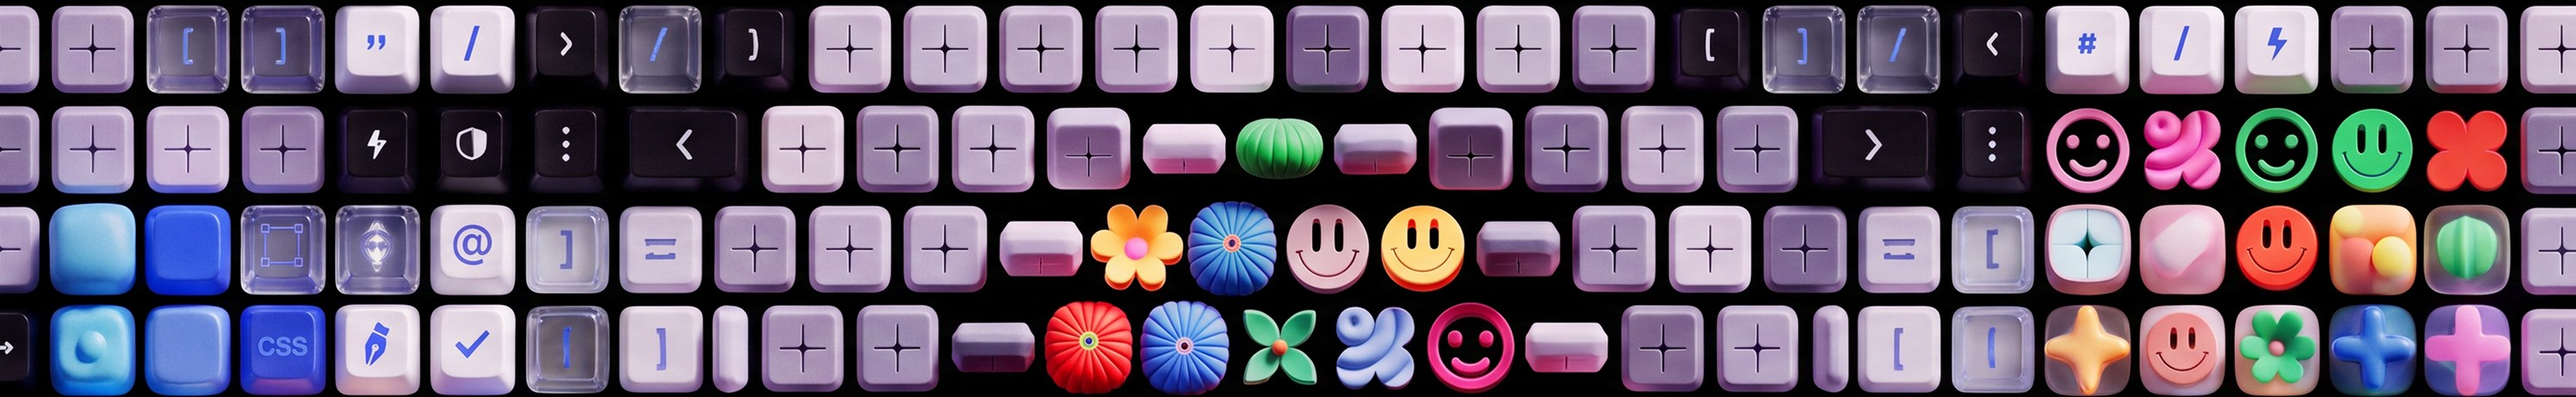
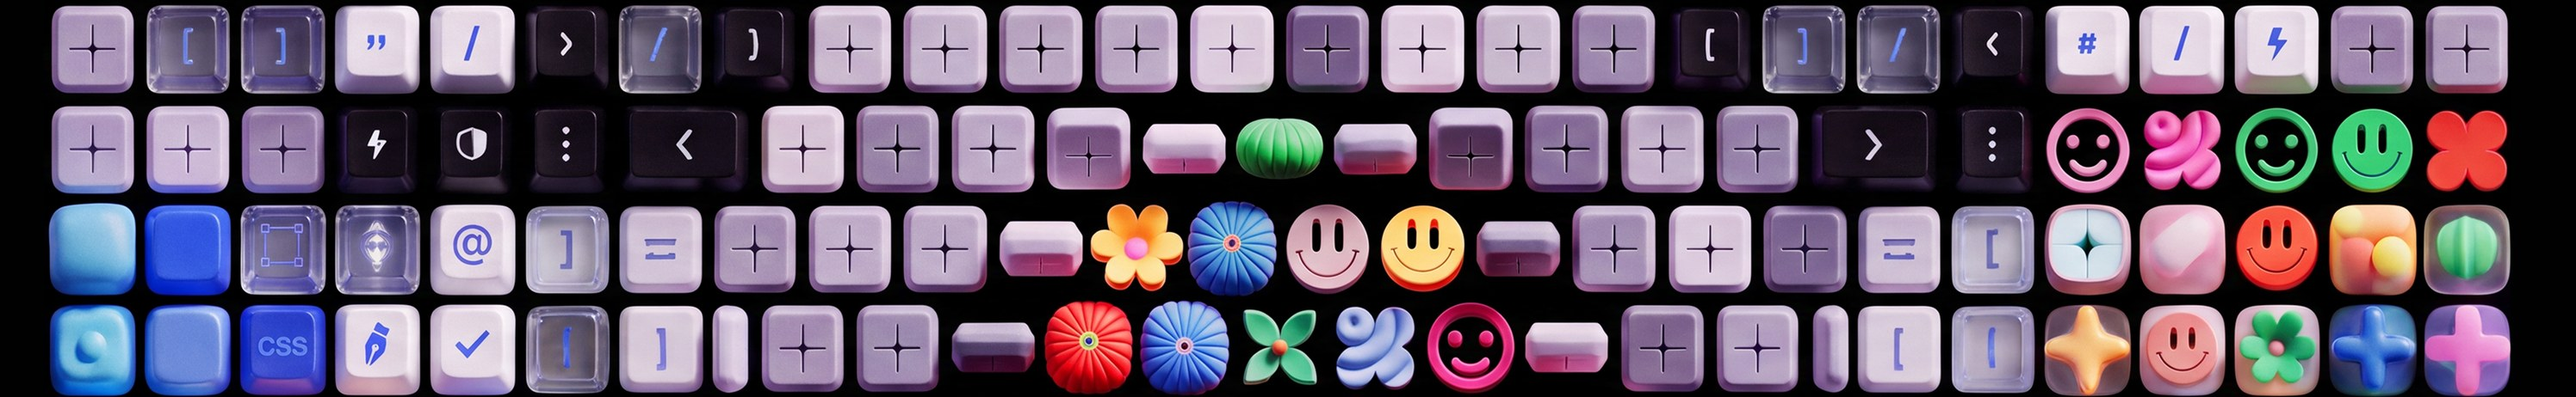
복도 천장 정합 · 교실 관람 게이트 · 도면 축척 일치
05p 복도 3D
- 프로젝터 개구를 빛기둥 바로 위로 옮겼다. 실제로는 경사 투사라 개구가 1.66m
  뒤에 오지만, 빛기둥을 수직으로 세워 둔 화면에서는 "엉뚱한 데서 나온 빛"으로만
  읽혔다. 실제 기하는 03p 배치 도해가 오프셋까지 그대로 그린다
- 형광등 위치를 개구 좌표에서 계산해 한 칸 걸러 5등으로. 손으로 적어 둔 좌표가
  개구를 옮길 때마다 어긋나던 문제도 같이 사라진다
- 평상시(형광등)로 넘기면 바닥 콘텐츠가 자동으로 꺼지고, 소등으로 돌아오면
  직전 콘텐츠가 살아난다 — 프로젝터가 꺼진 상태와 앞뒤를 맞춘다
- 03 키캡 원본을 양 끝 잘림 없는 레퍼런스_바닥6_1.jpg 로 교체

06p 교실 3D
- 휠 방향을 뒤집었다 (아래로 = 다음 지점)
- 9지점을 다 봐야 다음 슬라이드로 넘어가고, 되돌아갈 때도 처음까지 되짚는다
  (deck.js 의 window.CORR 게이트와 같은 방식으로 window.ROOM 추가)
- 세로형 LED · 65" TV · 태블릿 · 미디어월을 클릭하면 원본 크기로 열린다.
  3D 안에서는 작고 비스듬해 화면 내용이 안 읽혔다

02p 도면
- 원본 도면을 구축범위 도면과 같은 축척(SC=4)·같은 좌표계로 다시 그렸다.
  통심 ③ x=440 / ⑤ x=1360 — 두 장이 같은 픽셀에 와서 눈으로 이어붙는다

diff --git a/js/corridor.js b/js/corridor.js
@@ -155,14 +155,17 @@
   /* 발자국·18% 중첩 띠·LiDAR 부채꼴 오버레이는 걷어냈다 — 토글 세 개가 화면을
      설명 도표로 만들었고, 이 슬라이드가 보여줄 것은 "실제로 이렇게 보인다"다.
      수치 근거는 6p 와 tools/projector_sim.py 에 남아 있다. */
-  var N = 10, PITCH = 1.592, SEGL = 1.937, OFF = 0.689;
-  var pjHtml = '', coneZ = [];
+  var N = 10, PITCH = 1.592, SEGL = 1.937;
+  /* 실제로는 경사 투사라 천장 개구가 발자국보다 1.66m 뒤에 온다(오프셋 689 + 커버 절반).
+     그런데 빛기둥은 수직 사다리꼴로 세워 두었으니, 개구를 뒤로 물리면 화면에서는
+     "엉뚱한 데서 나온 빛"으로만 읽힌다. 여기서는 개구를 콘 바로 위에 맞춘다 —
+     실제 기하는 5p 배치 도해(tools/make_system_plan.py)가 오프셋까지 그대로 그린다. */
+  var pjHtml = '', coneZ = [], pjA = [];
   for (var p = 0; p < N; p++) {
-    var s0 = A0 + p * PITCH * PPM, s1 = s0 + SEGL * PPM;
-    /* 천장 개구는 발자국보다 투사 오프셋만큼 뒤에 온다. 양끝만 구간 안으로 물린다. */
-    var nad = Math.min(Math.max(s0 - OFF * PPM, A0 + 0.35 * PPM), A0 + L - 0.35 * PPM);
-    pjHtml += '<i class="cw-pj" style="left:' + nad + 'px"></i>';
-    coneZ.push(zOf((s0 + s1) / 2));
+    var mid = A0 + (p * PITCH + SEGL / 2) * PPM;
+    pjA.push(mid);
+    pjHtml += '<i class="cw-pj" style="left:' + mid + 'px"></i>';
+    coneZ.push(zOf(mid));
   }
 
   /* LiDAR 3대 — 교실쪽 벽 상부. 구축 구간 3분할(2.7 / 8.1 / 13.5m).
@@ -176,9 +179,12 @@
     '<span>구축 범위 끝 · 통심 ⑤<br /><i>16,200mm</i></span>', { z: zOf(TL) });
 
   /* ---- 천장 : 형광등 · 프로젝터 매립 개구 · LiDAR ----
-     형광등은 프로젝터 개구 사이 빈칸에만 넣는다. 매립 개구와 겹치면 둘 다 못 단다.
-     개구 반폭 52 · 등 반폭 75 이므로, 개구 간 310px 틈의 중앙이면 양쪽 80px 여유. */
-  var GAPS = [442, 1270, 2097, 2925, 3905].map(function (v) { return A0 + v; });
+     형광등은 프로젝터 개구 사이 빈칸의 정중앙에 둔다 — 좌표를 손으로 적어 두면
+     개구가 움직일 때마다 어긋나므로 pjA 에서 계산한다.
+     개구 반폭 52 · 등 반폭 75 · 개구 간격 414px → 틈 310px, 등 150 이 들어가고 80px 씩 남는다.
+     한 칸 걸러 하나씩만 놓아 등 간격을 828px(3.2m)로 — 매 칸이면 1.6m 라 너무 촘촘하다. */
+  var GAPS = [];
+  for (var g = 0; g + 2 < pjA.length; g += 2) GAPS.push((pjA[g] + pjA[g + 1]) / 2);
   var FLPOS = [A0 / 2].concat(GAPS);              // 계단실 구간에도 1등
   var flHtml = FLPOS.map(function (a) {
     return '<i class="cw-fl" style="left:' + a + 'px"></i>';
@@ -267,8 +273,14 @@
     slide.style.setProperty('--cone', CONE[f] || CONE['']);
     slide.style.setProperty('--cone-a', f ? '1' : '.45');
   }
+  var last = null;                       // 형광등으로 갈 때 접어 둔 콘텐츠
   slide.querySelectorAll('.cw-fbtn').forEach(function (b) {
-    b.addEventListener('click', function (e) { e.stopPropagation(); setFloor(b); });
+    b.addEventListener('click', function (e) {
+      e.stopPropagation();
+      setFloor(b);
+      /* 콘텐츠를 직접 고르면 형광등 복귀분은 무효 — 지금 고른 것이 기준이 된다 */
+      last = b.dataset.floor ? b : null;
+    });
   });
   setFloor(slide.querySelector('.cw-fbtn.is-on'));
 
@@ -278,11 +290,19 @@
   slide.querySelectorAll('.cw-mbtn').forEach(function (b) {
     b.addEventListener('click', function (e) {
       e.stopPropagation();
-      var m = b.dataset.mode;
+      var m = b.dataset.mode, lit = m === 'lit';
       slide.querySelectorAll('.cw-mbtn').forEach(function (x) { x.classList.remove('is-on'); });
       b.classList.add('is-on');
-      slide.classList.toggle('is-lit', m === 'lit');
-      slide.classList.toggle('fx-cone', m !== 'lit');
+      slide.classList.toggle('is-lit', lit);
+      slide.classList.toggle('fx-cone', !lit);
+      /* 형광등을 켜면 프로젝터는 꺼진 상태다 — 바닥 콘텐츠도 같이 내려야 앞뒤가 맞는다.
+         소등으로 돌아올 때 직전 콘텐츠를 되살린다. */
+      if (lit) {
+        last = slide.querySelector('.cw-fbtn.is-on');
+        setFloor(slide.querySelector('.cw-fbtn[data-floor=""]'));
+      } else if (last) {
+        setFloor(last);
+      }
     });
   });
 })();

diff --git a/js/room3d.js b/js/room3d.js
@@ -56,9 +56,9 @@
       'translate3d(' + (cx - w / 2) + 'px,' + (cy - h / 2) + 'px,' + cz + 'px)' +
       (rot || '') + '">' + (html || '') + '</i>';
   }
-  function box(w, h, d, x, y, z, cls, html) {
+  function box(w, h, d, x, y, z, cls, html, attr) {
     var hw = w / 2, hh = h / 2, hd = d / 2;
-    return '<div class="bx ' + (cls || '') + '" style="transform:translate3d(' +
+    return '<div class="bx ' + (cls || '') + '"' + (attr || '') + ' style="transform:translate3d(' +
       x + 'px,' + y + 'px,' + z + 'px)">' +
       face(w, h, 0, 0, hd, '', 'bx__f', html) +
       face(d, h, -hw, 0, 0, ' rotateY(-90deg)', 'bx__s') +
@@ -86,7 +86,7 @@
        앞으로 밀어야 옆면이 보이고, 뒤에 그림자를 깔아야 떠 있는 게 읽힌다. */
     wallShadow(4 * PPM, 2.5 * PPM, 0, 0) +
     box(4 * PPM, 2.5 * PPM, 0.34 * PPM, 0, 0, 0.17 * PPM + 6, 'bx--led',
-      '<img class="bx__img" src="assets/img/led/imw-hero.jpg" alt="" />'),
+      '<img class="bx__img" src="assets/img/led/imw-hero.jpg" alt="" />', zoom(3)),
     0, HL).dataset.solid = '1';   // 입체 상자를 품은 면 — opacity 로 페이드하면 납작해진다
 
   /* ---- 서측 단변 : 입구 정면 벽 — 과 부스 01 이 붙는다 ---- */
@@ -141,6 +141,12 @@
     return src ? '<img class="bx__img" src="' + src + '" alt="" />' : '';
   }
 
+  /* 3D 안에서는 화면이 작고 비스듬해 내용이 안 읽힌다 — 클릭하면 원본으로 연다.
+     deck.js 라이트박스가 [data-gallery][data-index] 를 잡으므로 상자에 그대로 얹는다. */
+  function zoom(i) {
+    return ' data-no-advance data-gallery="booth" data-index="' + i + '"';
+  }
+
   /* 벽면에 지는 그림자. 기기보다 조금 크게 잡고 아래로 내려 광원이 위에 있다는
      전제를 맞춘다. 벽(z=0) 바로 앞 2px 에 눕혀 기기 뒤로 깔린다. */
   function wallShadow(w, h, x, y) {
@@ -166,15 +172,15 @@
     var vy = FL - 39 - vh / 2, ty = FL - 330 - th / 2;
     return '<div class="rm-booth__no">' + n + '</div>' +
       wallShadow(vw, vh, lx, vy) + wallShadow(tw, th, rx, ty) +
-      box(vw, vh, vd, lx, vy, vd / 2 + OFF, 'bx--vled', screen(SHOT.v)) +
-      box(tw, th, td, rx, ty, td / 2 + OFF, 'bx--tv', screen(SHOT.t)) +
+      box(vw, vh, vd, lx, vy, vd / 2 + OFF, 'bx--vled', screen(SHOT.v), zoom(0)) +
+      box(tw, th, td, rx, ty, td / 2 + OFF, 'bx--tv', screen(SHOT.t), zoom(1)) +
       box(cw, ch, cd, rx, FL - ch / 2, cz, 'bx--desk', '') +
       /* 경사 하우징에 눕는 태블릿. 판 한 장이면 옆에서 종잇장이 되므로 얇은 상자로
          세운다 — 갤럭시탭 12.4″ 는 16:10, 두께 6mm 에 하우징 테두리가 더 붙는다.
          상자를 눕히는 회전은 바깥 래퍼가 맡고, 안쪽 box() 는 로컬 원점에 둔다. */
       '<i class="rm-tab" style="transform:translate3d(' + rx + 'px,' +
       (FL - ch - 8) + 'px,' + (cz + 40) + 'px) rotateX(58deg)">' +
-      box(84, 52, 9, 0, 0, 0, 'bx--tab', screen(SHOT.p)) + '</i>';
+      box(84, 52, 9, 0, 0, 0, 'bx--tab', screen(SHOT.p), zoom(2)) + '</i>';
   }
 
   BOOTHS.forEach(function (b) {
@@ -271,12 +277,29 @@
     b.addEventListener('click', function (e) { e.stopPropagation(); vi = i; apply(); });
   });
 
+  /* 휠 아래로 = 다음 지점. 문서를 아래로 내리듯 동선을 따라간다
+     (07p 복도는 휠 위로 = 전진 — 그쪽은 카메라가 앞으로 나가는 동작이라 방향이 반대다). */
   var lock = 0;
   slide.addEventListener('wheel', function (e) {
     e.preventDefault();
     if (e.timeStamp - lock < 300) return;
     lock = e.timeStamp;
-    vi = Math.max(0, Math.min(SPOTS.length - 1, vi + (e.deltaY < 0 ? 1 : -1)));
-    apply();
+    step(e.deltaY > 0 ? 1 : -1);
   }, { passive: false });
+
+  function step(d) {
+    var nx = vi + d;
+    if (nx < 0 || nx > SPOTS.length - 1) return false;   // 끝 — 슬라이드로 넘긴다
+    vi = nx; apply();
+    return true;
+  }
+
+  /* deck.js 가 ← → · Space 를 넘기기 전에 물어본다. 9지점을 다 보기 전에는
+     슬라이드가 넘어가지 않고, 되돌아갈 때도 마찬가지로 처음까지 되짚는다.
+     들어오는 방향에 따라 시작 지점이 다르다 — 뒤에서 오면 마지막 컷부터. */
+  window.ROOM = {
+    next: function () { return step(1); },
+    prev: function () { return step(-1); },
+    reset: function (fromEnd) { vi = fromEnd ? SPOTS.length - 1 : 0; apply(); }
+  };
 })();

diff --git a/index.html b/index.html
@@ -18,12 +18,12 @@
   <meta name="description" content="복도 바닥 프로젝션 · 대형 LED 미디어월 · 과 부스 5개소 — 콘텐츠 · 시스템 구축 계획." />
 
   <link rel="stylesheet" href="https://cdn.jsdelivr.net/gh/orioncactus/pretendard@v1.3.9/dist/web/static/pretendard.css" />
-  <link rel="stylesheet" href="css/tokens.css?v=20260821050000" />
-  <link rel="stylesheet" href="css/base.css?v=20260821050000" />
-  <link rel="stylesheet" href="css/slides.css?v=20260821050000" />
-  <link rel="stylesheet" href="css/storyboard.css?v=20260821050000" />
-  <link rel="stylesheet" href="css/proposal.css?v=20260821050000" />
-  <link rel="stylesheet" href="css/gunja.css?v=20260821050000" />
+  <link rel="stylesheet" href="css/tokens.css?v=20260821061000" />
+  <link rel="stylesheet" href="css/base.css?v=20260821061000" />
+  <link rel="stylesheet" href="css/slides.css?v=20260821061000" />
+  <link rel="stylesheet" href="css/storyboard.css?v=20260821061000" />
+  <link rel="stylesheet" href="css/proposal.css?v=20260821061000" />
+  <link rel="stylesheet" href="css/gunja.css?v=20260821061000" />
 </head>
 <body>
   <div id="boot"></div>
@@ -69,7 +69,7 @@
         <div class="doc-body">
           <div class="plan-pair" data-rise="2">
             <figure>
-              <img src="assets/img/plan-original.png?v=2" alt="제공받은 원본 도면 — 3층 평면" data-no-advance data-gallery="plan" data-index="0" />
+              <img src="assets/img/plan-original.png?v=3" alt="제공받은 원본 도면 — 3층 평면" data-no-advance data-gallery="plan" data-index="0" />
               <figcaption><b>제공받은 원본 도면</b>3층 평면 · 통심 ③~⑤ 구간이 이번 구축 범위입니다</figcaption>
             </figure>
             <figure>
@@ -310,10 +310,10 @@
 
   <!-- tech.js · cue-console.js · album-tabs.js · storyboard.js 는 담당하던 슬라이드가
        빠지면서 붙일 곳이 없어졌다. 파일은 deck/js 에 남겨 두고 로드만 끊는다. -->
-  <script src="js/gallery-data.js?v=20260821050000"></script>
-  <script src="js/room3d.js?v=20260821050000"></script>
-  <script src="js/corridor.js?v=20260821050000"></script>
-  <script src="js/imw-hover.js?v=20260821050000"></script>
-  <script src="js/deck.js?v=20260821050000"></script>
+  <script src="js/gallery-data.js?v=20260821061000"></script>
+  <script src="js/room3d.js?v=20260821061000"></script>
+  <script src="js/corridor.js?v=20260821061000"></script>
+  <script src="js/imw-hover.js?v=20260821061000"></script>
+  <script src="js/deck.js?v=20260821061000"></script>
 </body>
 </html>

diff --git a/js/deck.js b/js/deck.js
@@ -103,17 +103,21 @@
     current = nx;
     /* 복도 시뮬레이션 / 기술구성으로 들어올 때: 앞에서 오면 첫 항목, 뒤에서 오면 마지막부터 */
     if (slides[current].id === 'corridor-sim3d' && window.CORR) window.CORR.reset(dir < 0);
+    if (slides[current].id === 'room-sim3d' && window.ROOM) window.ROOM.reset(dir < 0);
     if (slides[current].id === 'tech' && window.TECH) window.TECH.reset(dir < 0);
     var gt = slides[current].querySelector('.sc-track-main');
     if (gt) { gt.scrollLeft = (dir < 0) ? Math.max(0, gt.scrollWidth - gt.clientWidth) : 0; }
     render();
   }
   function gatedTrack() { return slides[current].querySelector('.sc-track-main'); }
-  /* 복도 시뮬레이션은 16.2m 를 다 걸은 뒤, 기술구성은 두 센서 뷰를 소진한 뒤 슬라이드를 넘긴다 */
+  /* 복도 시뮬레이션은 16.2m 를 다 걸은 뒤, 교실은 9지점을 다 본 뒤,
+     기술구성은 두 센서 뷰를 소진한 뒤 슬라이드를 넘긴다 */
   function onCorr() { return slides[current].id === 'corridor-sim3d' && window.CORR; }
+  function onRoom() { return slides[current].id === 'room-sim3d' && window.ROOM; }
   function onTech() { return slides[current].id === 'tech' && window.TECH; }
   function next() {
     if (onCorr() && window.CORR.next()) return;
+    if (onRoom() && window.ROOM.next()) return;
     if (onTech() && window.TECH.next()) return;
     var t = gatedTrack();
     if (t) {
@@ -124,6 +128,7 @@
   }
   function prev() {
     if (onCorr() && window.CORR.prev()) return;
+    if (onRoom() && window.ROOM.prev()) return;
     if (onTech() && window.TECH.prev()) return;
     var t = gatedTrack();
     if (t) {

diff --git a/js/gallery-data.js b/js/gallery-data.js
@@ -23,10 +23,26 @@ window.GALLERY = {
   plan: {
     fit: 'contain',
     items: [
-      { k: 'i', s: 'assets/img/plan-original.png', t: '제공받은 원본 도면',
+      { k: 'i', s: 'assets/img/plan-original.png?v=3', t: '제공받은 원본 도면',
         m: '3층 평면 · 통심 ③~⑤ 구간이 구축 범위', spec: '학교 제공' },
       { k: 'i', s: 'assets/img/scope-plan.png', t: '구축 범위 도면',
         m: '칸막이 제거 후 단일 공간 · 바닥 프로젝션 + LED 미디어월 구역', spec: '실측 기반' }
+    ]
+  },
+
+  /* 06p · 3D 안의 화면들 — 작고 비스듬해 내용이 안 읽힌다. 클릭하면 원본으로 연다.
+     순서는 room3d.js zoom(0..3) 과 맞춰야 한다. */
+  booth: {
+    fit: 'contain',
+    items: [
+      { k: 'i', s: 'assets/img/booth/vled-01_1.jpg', t: '세로형 벽면 LED',
+        m: '상시 표출 · 통로 끝에서 학과를 알아보게', spec: '600 × 2,400mm · 240 × 960px' },
+      { k: 'i', s: 'assets/img/booth/tv-01-elec.jpg', t: '65″ 벽걸이 TV',
+        m: '카운터 태블릿이 그대로 미러링하는 화면', spec: '1,920 × 1,080 · 16:9' },
+      { k: 'i', s: 'assets/img/booth/tablet-01-elec-w.jpg', t: '카운터 태블릿',
+        m: '갤럭시탭 12.4″ — 손으로 넘기면 TV 가 따라온다', spec: '16:10' },
+      { k: 'i', s: 'assets/img/led/imw-hero.jpg', t: '인터랙티브 미디어월',
+        m: '화면은 예시 — 실적용 시 학교 로고로 교체', spec: '4,000 × 2,500 · 16:10 · 10㎡' }
     ]
   },
 

diff --git a/css/gunja.css b/css/gunja.css
@@ -905,3 +905,12 @@
   object-fit: contain; background: #fff;
   border-radius: var(--radius-sm); box-shadow: 0 0 0 1px var(--line); }.plan-pair img, .sys-plan { cursor: zoom-in; transition: box-shadow .2s var(--ease-soft); }
 .plan-pair img:hover, .sys-plan:hover { box-shadow: 0 0 0 1px var(--line-strong), 0 18px 44px rgba(0,0,0,.5); }
+/* 3D 안의 화면은 클릭하면 원본으로 열린다. 호버 때 프레임이 밝아져 "누를 수 있다"를 알린다.
+   .bx 자체는 두께 0 컨테이너라 히트영역이 없다 — 앞면(.bx__f)이 받아 준다. */
+.bx[data-gallery] { cursor: zoom-in; }
+.bx[data-gallery] > .bx__f { transition: box-shadow .2s var(--ease-soft), filter .2s var(--ease-soft); }
+.bx[data-gallery]:hover > .bx__f { filter: brightness(1.16); }
+.bx--vled[data-gallery]:hover > .bx__f { box-shadow: inset 0 0 0 5px #dfe3ec, 0 0 60px rgba(255,255,255,.42); }
+.bx--tv[data-gallery]:hover   > .bx__f { box-shadow: inset 0 0 0 6px #dfe3ec, 0 0 46px rgba(255,255,255,.36); }
+.bx--tab[data-gallery]:hover  > .bx__f { box-shadow: inset 0 0 0 4px #dfe3ec, 0 0 34px rgba(255,255,255,.40); }
+.bx--led[data-gallery]:hover  > .bx__f { box-shadow: inset 0 0 0 7px #dfe3ec, 0 0 110px rgba(255,255,255,.44); }
